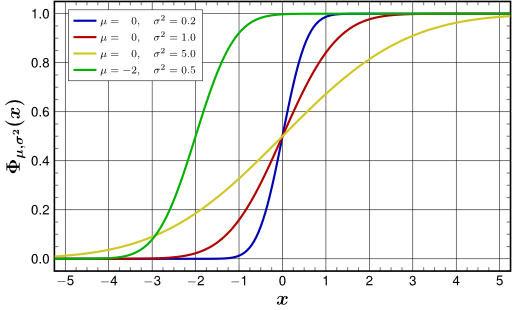
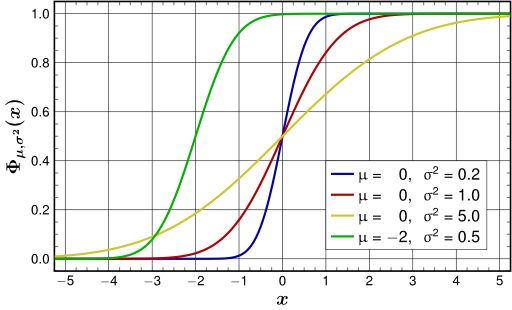
made legend easier to read

Changed region(s): [[0.625, 0.4935, 0.9688, 0.8129], [0.125, 0.029, 0.4062, 0.2613], [0.625, 0.5516, 0.75, 0.5806]]

diff --git a/tikz/normal-distribution-cumulative-density-function-many/normal-distribution-cumulative-density-function-many.tex b/tikz/normal-distribution-cumulative-density-function-many/normal-distribution-cumulative-density-function-many.tex
@@ -31,8 +31,12 @@ every axis label/.append style={font=\sffamily\footnotesize},
         ymin=-0.05,  % start the diagram at this y-coordinate
         ymax= 1.05,  % end   the diagram at this y-coordinate
         % Legende
-        legend pos=north west,
-        legend style={font=\footnotesize},
+        legend style={
+            font=\large\sansmath\sffamily,
+            at={(0.7716,0.41)},
+            anchor=north,
+            legend cell align=left
+        },
         % Ticks
         tick align=inside,
         minor tick num=3,
@@ -56,10 +60,10 @@ every axis label/.append style={font=\sffamily\footnotesize},
         \addplot[domain=-5.25:5.25,smooth,red!70!black,ultra thick,samples=200,] gnuplot{\cdf(x)(0)(1.0)};
         \addplot[domain=-5.25:5.25,smooth,yellow!80!black,ultra thick,samples=200,] gnuplot{\cdf(x)(0)(5)};
         \addplot[domain=-5.25:5.25,smooth,green!70!black,ultra thick,samples=200,] gnuplot{\cdf(x)(-2)(0.5)};
-      \addlegendentry{$\mu=\hphantom{-}0,\quad \sigma^2 = 0.2$}
-      \addlegendentry{$\mu=\hphantom{-}0,\quad \sigma^2 = 1.0$}
-      \addlegendentry{$\mu=\hphantom{-}0,\quad \sigma^2 = 5.0$}
-      \addlegendentry{$\mu=-2,\quad \sigma^2 = 0.5$}
+      \addlegendentry{$\mu=\hphantom{-}0,\enskip \sigma^2 = 0.2$}
+      \addlegendentry{$\mu=\hphantom{-}0,\enskip \sigma^2 = 1.0$}
+      \addlegendentry{$\mu=\hphantom{-}0,\enskip \sigma^2 = 5.0$}
+      \addlegendentry{$\mu=-2,\enskip \sigma^2 = 0.5$}
     \end{axis} 
 \end{tikzpicture}
 \end{preview}
